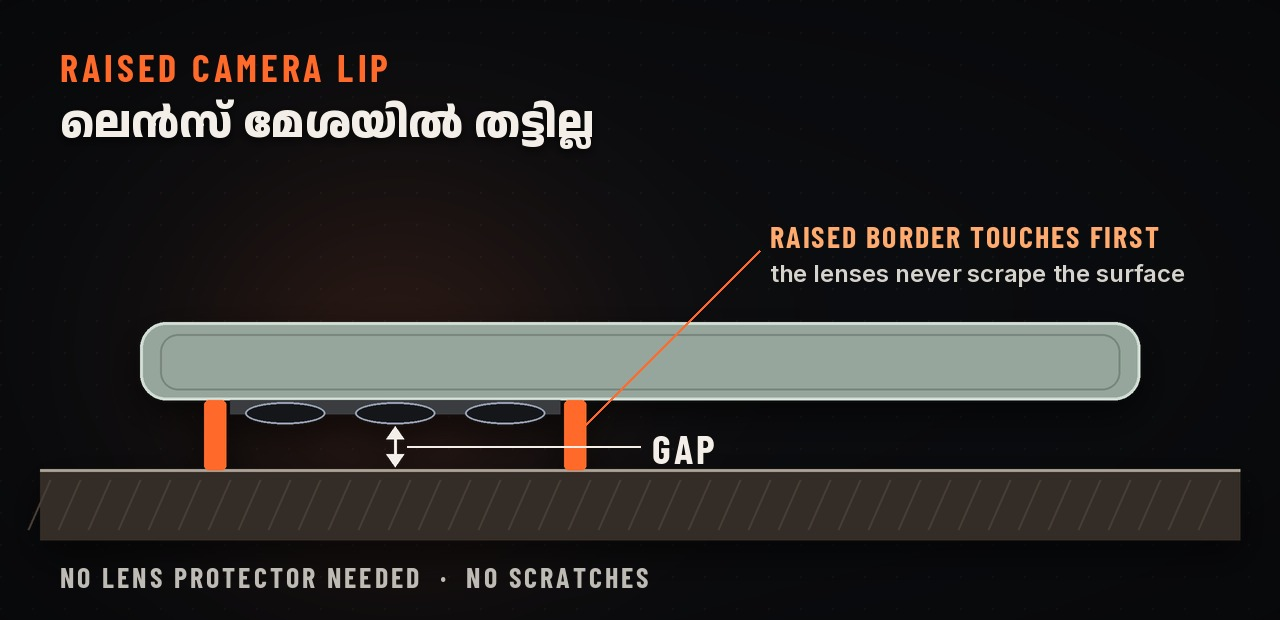
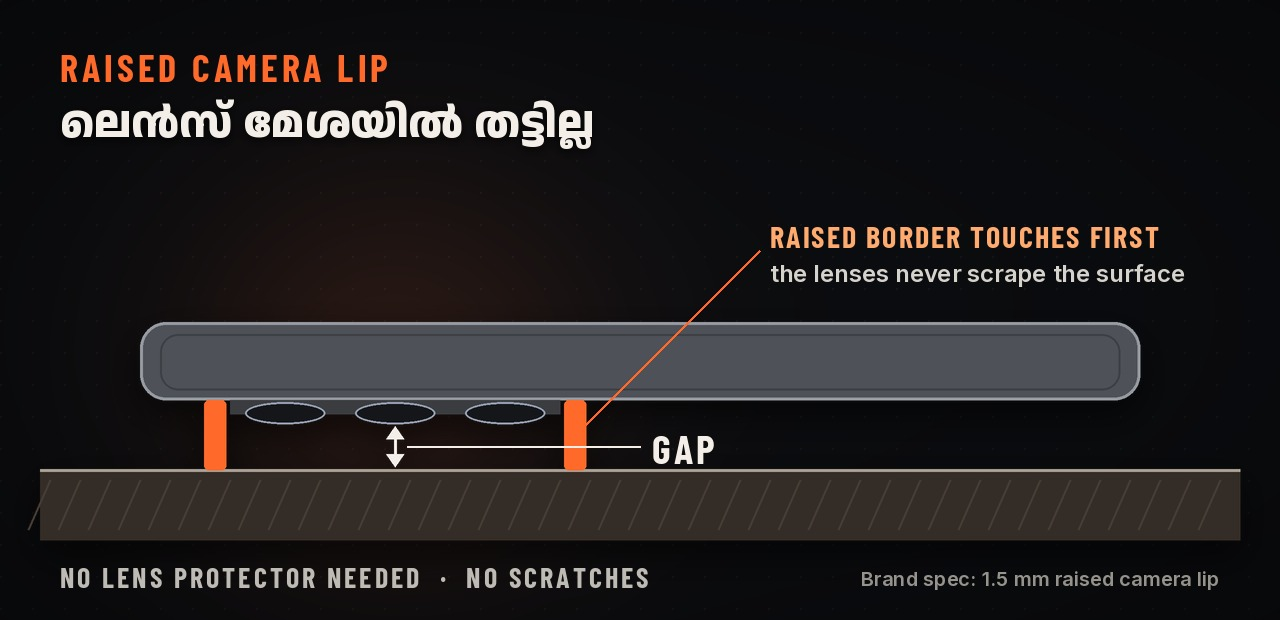
iphone-case-review blog: redraw the case from the real product design
Charcoal shell, camera window showing the phone's finish with three lenses
and the white chevron, flash / LiDAR / triangle vent, ember strips,
octagonal textured panel with MagSafe ring and oval, corner vents with
ember stripes, bumper corners. Feature map gains "textured back"; the lip
diagram notes the brand's 1.5 mm spec.

Claude-Session: https://claude.ai/code/session_01N4FJ4EwySdmqzADLLCyBQi

Changed region(s): [[0.0938, 0.521, 0.9062, 0.6742], [0.6562, 0.9194, 0.9688, 0.95]]

diff --git a/video-edit/tools/blog_images/iphone_case.py b/video-edit/tools/blog_images/iphone_case.py
@@ -4,8 +4,9 @@
 usage: iphone_case.py OUT_DIR
 writes hero.jpg (1280x720), features.jpg (1280x1000), camera-lip.jpg (1280x620), price.jpg (1280x640)
 
-The case is drawn as a flat vector illustration in the product's colours (sage-grey shell, ember accents): a raised
-camera island with three lenses, MagSafe ring, dotted heat vents, button covers on the sides, thicker corners.
+The case is drawn as a flat vector illustration of the actual design (charcoal shell, camera window showing the phone's
+finish with three lenses and a white chevron, flash / LiDAR / triangle vent, ember strips, octagonal textured panel with a
+MagSafe ring and oval, corner vents with ember stripes, bumper corners).
 """
 import math, os, sys
 import numpy as np
@@ -76,87 +77,139 @@ def tracked(d, xy, s, ft, fill, tr):
 
 
 # ---------------------------------------------------------------------------------------------- the case
+CH = (78, 81, 87)          # charcoal shell
+CH_D = (48, 50, 55)
+CH_L = (122, 126, 133)
+PANEL = (60, 63, 68)
+CREAM = (233, 221, 198)    # the phone's own finish, seen through the camera window
+
+
+def _dots(d, P, S, pts_fn, x0, y0, x1, y1, step, r, fill):
+    y = y0
+    row = 0
+    while y <= y1:
+        x = x0 + (step / 2 if row % 2 else 0)
+        while x <= x1:
+            if pts_fn(x, y):
+                d.ellipse([*P(x - r, y - r), *P(x + r, y + r)], fill=fill)
+            x += step
+        y += step * 0.87
+        row += 1
+
+
+def _in_tri(a, b, c):
+    def f(x, y):
+        def sgn(p1, p2, p3):
+            return (p1[0] - p3[0]) * (p2[1] - p3[1]) - (p2[0] - p3[0]) * (p1[1] - p3[1])
+        d1, d2, d3 = sgn((x, y), a, b), sgn((x, y), b, c), sgn((x, y), c, a)
+        neg = d1 < 0 or d2 < 0 or d3 < 0
+        pos = d1 > 0 or d2 > 0 or d3 > 0
+        return not (neg and pos)
+    return f
+
+
 def case_back(h=1100):
-    """Back view of the case (portrait), RGBA, height h.  Returns (img, anchors) with anchors in image px."""
+    """Back view of the case as sold (charcoal shell, camera window showing the phone's cream finish, three lenses,
+    white chevron strips, flash / LiDAR / triangle vent, ember strips, octagonal textured panel with MagSafe ring and
+    oval, corner vents with ember stripes, bumper corners).  RGBA at height h; returns (img, anchors)."""
     ss = 2
-    W0, H0 = 560, 1140                       # design units
+    W0, H0 = 560, 1140
     k = h / H0
     S = lambda v: v * k * ss
     W, H = int(W0 * k), int(H0 * k)
-    im = Image.new("RGBA", (W * ss + 4 * ss, H * ss), (0, 0, 0, 0))
-    d = ImageDraw.Draw(im)
-    ox = 2 * ss
+    pad = 6
+    im = Image.new("RGBA", (W * ss + 2 * pad * ss, H * ss), (0, 0, 0, 0))
+    ox = pad * ss
     P = lambda x, y: (ox + S(x), S(y))
-    # side button covers (behind the shell): right edge = phone's left side seen from the back
-    for (y0, y1) in ((250, 312), (360, 450), (480, 570)):
-        d.rounded_rectangle([*P(W0 - 14, y0), *P(W0 + 1, y1)], radius=S(6), fill=SAGE_D)
-    for (y0, y1) in ((360, 500), (760, 830)):
-        d.rounded_rectangle([*P(-1, y0), *P(14, y1)], radius=S(6), fill=SAGE_D)
-    # shell with a vertical gradient
+    d = ImageDraw.Draw(im)
+    # button covers (behind the shell): right edge = action + volume, left edge = power + camera control
+    for (y0, y1) in ((236, 296), (330, 420), (446, 536)):
+        d.rounded_rectangle([*P(W0 - 16, y0), *P(W0 + 3, y1)], radius=S(7), fill=CH_D)
+    for (y0, y1) in ((330, 450), (610, 690)):
+        d.rounded_rectangle([*P(-3, y0), *P(16, y1)], radius=S(7), fill=CH_D)
+    # shell with a soft vertical gradient
     shell = Image.new("L", im.size, 0)
-    ImageDraw.Draw(shell).rounded_rectangle([*P(6, 0), *P(W0 - 6, H0)], radius=S(92), fill=255)
+    ImageDraw.Draw(shell).rounded_rectangle([*P(6, 0), *P(W0 - 6, H0)], radius=S(98), fill=255)
     grad = np.zeros((im.size[1], im.size[0], 4), np.uint8)
     t = np.linspace(0, 1, im.size[1])[:, None]
     for c in range(3):
-        grad[..., c] = (SAGE_L[c] * (1 - t) * 0.35 + SAGE[c] * (1 - t) * 0.65 + SAGE_D[c] * t).astype(np.uint8)
+        grad[..., c] = (CH_L[c] * 0.25 * (1 - t) + CH[c] * (1 - 0.25 * (1 - t)) * (1 - 0.18 * t)).astype(np.uint8)
     grad[..., 3] = 255
     im.paste(Image.fromarray(grad, "RGBA"), (0, 0), shell)
     d = ImageDraw.Draw(im)
-    d.rounded_rectangle([*P(6, 0), *P(W0 - 6, H0)], radius=S(92), outline=(84, 96, 90), width=int(S(5)))
-    d.rounded_rectangle([*P(22, 16), *P(W0 - 22, H0 - 16)], radius=S(78), outline=(176, 190, 181), width=int(S(3)))
-    # thicker corners (drop protection)
-    for cx, cy, a0 in ((6, 0, 180), (W0 - 6, 0, 270), (6, H0, 90), (W0 - 6, H0, 0)):
-        bx = (cx - 4 if cx < W0 / 2 else cx - 180 + 4)
-        by = (cy - 4 if cy < H0 / 2 else cy - 180 + 4)
-        d.arc([*P(bx, by), *P(bx + 184, by + 184)], start=a0, end=a0 + 90, fill=(74, 86, 80), width=int(S(10)))
-    # camera island (raised plate)
-    isl = [*P(44, 40), *P(404, 400)]
+    d.rounded_rectangle([*P(6, 0), *P(W0 - 6, H0)], radius=S(98), outline=(36, 38, 42), width=int(S(5)))
+    d.rounded_rectangle([*P(18, 12), *P(W0 - 18, H0 - 12)], radius=S(86), outline=(112, 116, 123), width=int(S(3)))
+    d.rounded_rectangle([*P(30, 24), *P(W0 - 30, H0 - 24)], radius=S(74), outline=(58, 61, 66), width=int(S(2)))
+    # bumper corners (air-cushion style)
+    for (bx, by, a0) in ((6, 0, 180), (W0 - 6 - 196, 0, 270), (6, H0 - 196, 90), (W0 - 6 - 196, H0 - 196, 0)):
+        d.arc([*P(bx, by), *P(bx + 196, by + 196)], start=a0 + 12, end=a0 + 78, fill=(140, 144, 151), width=int(S(4)))
+    # camera island: raised plate with a lip
+    isl = (40, 38, 520, 404)
     sh = Image.new("RGBA", im.size, (0, 0, 0, 0))
-    ImageDraw.Draw(sh).rounded_rectangle([isl[0] + S(6), isl[1] + S(10), isl[2] + S(6), isl[3] + S(10)], radius=S(70), fill=(0, 0, 0, 120))
-    im.alpha_composite(sh.filter(ImageFilter.GaussianBlur(S(8))))
+    ImageDraw.Draw(sh).rounded_rectangle([*P(isl[0] + 4, isl[1] + 12), *P(isl[2] + 4, isl[3] + 14)], radius=S(66), fill=(0, 0, 0, 150))
+    im.alpha_composite(sh.filter(ImageFilter.GaussianBlur(S(9))))
     d = ImageDraw.Draw(im)
-    d.rounded_rectangle(isl, radius=S(70), fill=(168, 181, 172), outline=(92, 104, 98), width=int(S(5)))
-    d.rounded_rectangle([isl[0] + S(16), isl[1] + S(16), isl[2] - S(16), isl[3] - S(16)], radius=S(56),
-                        outline=(204, 214, 207), width=int(S(3)))
-    # X pattern
-    d.line([*P(230, 120), *P(300, 210)], fill=(222, 230, 225), width=int(S(9)))
-    d.line([*P(300, 280), *P(230, 350)], fill=(222, 230, 225), width=int(S(9)))
-    # dotted vent triangle in the island
-    for i in range(9):
-        for j in range(9):
-            if i + j < 9:
-                x = 250 + i * 14 + (j % 2) * 7
-                y = 360 - j * 13
-                d.ellipse([*P(x - 3.2, y - 3.2), *P(x + 3.2, y + 3.2)], fill=(74, 84, 80))
-    # lenses
-    for (lx, ly, r) in ((136, 130, 66), (136, 300, 66), (262, 216, 66)):
-        d.ellipse([*P(lx - r - 10, ly - r - 10), *P(lx + r + 10, ly + r + 10)], fill=(196, 202, 206), outline=(120, 126, 132), width=int(S(3)))
-        d.ellipse([*P(lx - r, ly - r), *P(lx + r, ly + r)], fill=(24, 27, 32))
-        d.ellipse([*P(lx - r * 0.55, ly - r * 0.55), *P(lx + r * 0.55, ly + r * 0.55)], fill=(10, 12, 16), outline=(60, 70, 90), width=int(S(2)))
-        d.ellipse([*P(lx - r * 0.38, ly - r * 0.52), *P(lx - r * 0.08, ly - r * 0.22)], fill=(150, 170, 205))
-    d.ellipse([*P(342, 92), *P(384, 134)], fill=(236, 232, 214), outline=(140, 140, 130), width=int(S(2)))       # flash
-    d.ellipse([*P(357, 172), *P(369, 184)], fill=(40, 44, 48))                                                    # mic
-    d.ellipse([*P(336, 300), *P(382, 346)], fill=(20, 22, 26), outline=(110, 116, 122), width=int(S(2)))       # LiDAR
-    # ember accents
-    d.rounded_rectangle([*P(36, 150), *P(48, 250)], radius=S(5), fill=EMBER)
-    d.rounded_rectangle([*P(400, 200), *P(412, 300)], radius=S(5), fill=EMBER)
-    d.line([*P(430, 600), *P(500, 690)], fill=EMBER, width=int(S(11)))
-    # dotted vent bottom right of the shell
-    for i in range(7):
-        for j in range(5):
-            x = 430 + i * 14 + (j % 2) * 7
-            y = 720 + j * 14
-            d.ellipse([*P(x - 3.2, y - 3.2), *P(x + 3.2, y + 3.2)], fill=(84, 96, 90))
-    # MagSafe ring
-    cx, cy, r = 280, 760, 190
-    d.ellipse([*P(cx - r, cy - r), *P(cx + r, cy + r)], outline=(96, 108, 102), width=int(S(16)))
-    d.ellipse([*P(cx - r + 30, cy - r + 30), *P(cx + r - 30, cy + r - 30)], outline=(160, 172, 165), width=int(S(4)))
-    d.rounded_rectangle([*P(cx - 16, cy + r + 20), *P(cx + 16, cy + r + 66)], radius=S(8), fill=(110, 122, 116))
-    im = im.resize((W + 4, H), Image.LANCZOS)
+    d.rounded_rectangle([*P(*isl[:2]), *P(*isl[2:])], radius=S(66), fill=(96, 100, 107), outline=(34, 36, 40), width=int(S(6)))
+    d.rounded_rectangle([*P(isl[0] + 14, isl[1] + 14), *P(isl[2] - 14, isl[3] - 14)], radius=S(54),
+                        outline=(140, 145, 152), width=int(S(3)))
+    # camera window (phone finish) bounded on the right by the white chevron
+    win = [(70, 66), (300, 66), (356, 221), (300, 376), (70, 376)]
+    m = Image.new("L", im.size, 0)
+    ImageDraw.Draw(m).polygon([P(x, y) for x, y in win], fill=255)
+    rr = Image.new("L", im.size, 0)
+    ImageDraw.Draw(rr).rounded_rectangle([*P(70, 66), *P(420, 376)], radius=S(44), fill=255)
+    m = Image.fromarray(np.minimum(np.asarray(m), np.asarray(rr)))
+    cream = np.zeros((im.size[1], im.size[0], 4), np.uint8)
+    tt = np.linspace(0, 1, im.size[0])[None, :]
+    for c in range(3):
+        cream[..., c] = (CREAM[c] * (1.02 - 0.10 * tt)).clip(0, 255).astype(np.uint8)
+    cream[..., 3] = 255
+    im.paste(Image.fromarray(cream, "RGBA"), (0, 0), m)
+    d = ImageDraw.Draw(im)
+    for (lx, ly, r) in ((152, 138, 66), (152, 304, 66), (262, 221, 66)):
+        d.ellipse([*P(lx - r - 7, ly - r - 7), *P(lx + r + 7, ly + r + 7)], fill=(30, 31, 34))
+        d.ellipse([*P(lx - r, ly - r), *P(lx + r, ly + r)], fill=(14, 15, 18), outline=(70, 74, 82), width=int(S(2)))
+        d.ellipse([*P(lx - r * 0.5, ly - r * 0.5), *P(lx + r * 0.5, ly + r * 0.5)], fill=(8, 9, 12), outline=(48, 58, 82), width=int(S(2)))
+        d.ellipse([*P(lx - r * 0.34, ly - r * 0.46), *P(lx - r * 0.08, ly - r * 0.20)], fill=(120, 150, 205))
+    d.line([*P(312, 82), *P(364, 204)], fill=(236, 236, 234), width=int(S(11)))
+    d.line([*P(364, 238), *P(312, 360)], fill=(236, 236, 234), width=int(S(11)))
+    # right side of the island: flash, mic, LiDAR, triangle vent
+    d.ellipse([*P(414, 88), *P(470, 144)], fill=(40, 40, 42))
+    d.ellipse([*P(422, 96), *P(462, 136)], fill=(236, 200, 70))
+    d.rounded_rectangle([*P(430, 168), *P(452, 196)], radius=S(10), fill=(40, 42, 46))
+    d.ellipse([*P(410, 286), *P(470, 346)], fill=(16, 17, 20), outline=(70, 74, 80), width=int(S(2)))
+    tri = ((350, 376), (412, 376), (381, 316))
+    _dots(d, P, S, _in_tri(*tri), 350, 318, 412, 374, 10, 2.8, (34, 36, 40))
+    d.rounded_rectangle([*P(46, 170), *P(58, 262)], radius=S(5), fill=EMBER)
+    d.rounded_rectangle([*P(502, 196), *P(514, 288)], radius=S(5), fill=EMBER)
+    # octagonal textured panel
+    oct_ = [(142, 452), (418, 452), (488, 522), (488, 1012), (418, 1082), (142, 1082), (72, 1012), (72, 522)]
+    d.polygon([P(x, y) for x, y in oct_], fill=PANEL, outline=(40, 42, 46))
+    tex = Image.new("L", im.size, 0)
+    ImageDraw.Draw(tex).polygon([P(x, y) for x, y in oct_], fill=255)
+    dots = Image.new("RGBA", im.size, (0, 0, 0, 0))
+    _dots(ImageDraw.Draw(dots), P, S, lambda x, y: True, 72, 452, 488, 1082, 9, 1.7, (44, 46, 51, 255))
+    im.paste(dots, (0, 0), Image.fromarray(np.minimum(np.asarray(tex), np.asarray(dots.split()[3]))))
+    d = ImageDraw.Draw(im)
+    for (x, y) in ((150, 474), (410, 474), (466, 530), (466, 1004), (410, 1060), (150, 1060), (94, 1004), (94, 530)):
+        d.ellipse([*P(x - 7, y - 7), *P(x + 7, y + 7)], fill=(36, 38, 42), outline=(104, 108, 114), width=int(S(1.5)))
+    # corner vents with ember stripes (top-right and bottom-left chamfers)
+    _dots(d, P, S, _in_tri((436, 446), (512, 446), (512, 522)), 436, 446, 512, 522, 10, 2.8, (30, 32, 36))
+    d.line([*P(410, 474), *P(470, 534)], fill=EMBER, width=int(S(10)))
+    _dots(d, P, S, _in_tri((48, 1012), (48, 1090), (126, 1090)), 48, 1012, 126, 1090, 10, 2.8, (30, 32, 36))
+    d.line([*P(92, 1000), *P(150, 1058)], fill=EMBER, width=int(S(10)))
+    # MagSafe ring and the oval below it
+    cx, cy, r = 280, 712, 168
+    d.ellipse([*P(cx - r - 10, cy - r - 10), *P(cx + r + 10, cy + r + 10)], fill=(42, 44, 49))
+    d.ellipse([*P(cx - r + 26, cy - r + 26), *P(cx + r - 26, cy + r - 26)], fill=(66, 69, 75), outline=(96, 100, 107), width=int(S(2)))
+    d.arc([*P(cx - r - 4, cy - r - 4), *P(cx + r + 4, cy + r + 4)], start=200, end=320, fill=(120, 124, 131), width=int(S(3)))
+    d.rounded_rectangle([*P(256, 924), *P(304, 1022)], radius=S(24), fill=(52, 54, 59), outline=(96, 100, 107), width=int(S(2)))
+    im = im.resize((W + 2 * pad, H), Image.LANCZOS)
+    A = lambda x, y: (x * k + pad, y * k)
     anchors = {
-        "action": ((W0 + 1) * k + 2, 281 * k), "buttons": ((W0 + 1) * k + 2, 465 * k),
-        "lip": (44 * k + 2, 380 * k), "lens": (262 * k + 2, 216 * k), "magsafe": ((cx - r) * k + 2, cy * k),
-        "vent": (480 * k + 2, 748 * k), "corner": (40 * k + 2, (H0 - 40) * k), "island": (230 * k + 2, 40 * k),
+        "lens": A(152, 138), "lip": A(isl[0] + 3, 300), "action": A(W0 + 2, 266), "buttons": A(W0 + 2, 375),
+        "magsafe": A(cx - r - 6, cy + 40), "grip": A(420, 860), "vent": A(488, 470), "corner": A(30, H0 - 40),
+        "island": A(280, isl[1]),
     }
     return im, anchors
 
@@ -204,7 +257,8 @@ def callout(img, ax, ay, tx, ty, n, title, sub, align="left"):
 # ---------------------------------------------------------------------------------------------- 1. hero
 def hero():
     W, H = 1280, 720
-    img = backdrop(W, H, glows=((0.74, 0.45, 0.50, EMBER, 0.26), (0.10, 0.90, 0.5, SAGE, 0.10)))
+    img = backdrop(W, H, glows=((0.74, 0.40, 0.48, (255, 150, 70), 0.34), (0.86, 0.08, 0.40, (255, 205, 120), 0.16),
+                                (0.10, 0.90, 0.5, SAGE, 0.06)))
     case, _ = case_back(620)
     case = rotate(case, -14)
     shadow(img, Image.new("RGBA", img.size), 0, 0, 1, 0)
@@ -236,7 +290,7 @@ def hero():
 # ---------------------------------------------------------------------------------------------- 2. features
 def features():
     W, H = 1280, 1000
-    img = backdrop(W, H, glows=((0.5, 0.45, 0.45, EMBER, 0.14), (0.5, 1.0, 0.6, SAGE, 0.10)))
+    img = backdrop(W, H, glows=((0.5, 0.42, 0.45, (255, 150, 70), 0.22), (0.5, 1.0, 0.6, (255, 205, 120), 0.08)))
     case, A = case_back(820)
     x0, y0 = (W - case.width) // 2, 120
     lay = Image.new("RGBA", img.size, (0, 0, 0, 0))
@@ -248,12 +302,13 @@ def features():
     P = lambda k: (x0 + A[k][0], y0 + A[k][1])
     items = [
         ("lens", (380, 150), 1, "Camera design", "Perfectly designed camera area", "right"),
-        ("action", (930, 250), 2, "Action button", "Covered, not left open", "left"),
-        ("corner", (380, 860), 3, "Drop protection", "Built to take a fall", "right"),
+        ("action", (930, 230), 2, "Action button", "Covered, not left open", "left"),
+        ("corner", (380, 900), 3, "Drop protection", "Built to take a fall", "right"),
         ("lip", (380, 360), 4, "Raised camera lip", "Lens stays off the table", "right"),
-        ("magsafe", (380, 620), 5, "MagSafe", "Supported", "right"),
-        ("buttons", (930, 440), 6, "Button grip", "Good grip on every button", "left"),
-        ("vent", (930, 760), 7, "Heat vents", "Let warm air escape", "left"),
+        ("magsafe", (380, 650), 5, "MagSafe", "Supported", "right"),
+        ("buttons", (930, 380), 6, "Button grip", "Good grip on every button", "left"),
+        ("vent", (930, 540), 7, "Heat vents", "Let warm air escape", "left"),
+        ("grip", (930, 800), 8, "Textured back", "Satisfying to hold", "left"),
     ]
     for key, (tx, ty), n, t1, t2, al in items:
         ax, ay = P(key)
@@ -280,8 +335,8 @@ def camera_lip():
         dl.line([S(x), S(table_y + 10), S(x - 22), S(table_y + 60)], fill=(70, 60, 54, 255), width=S(2))
     lip_h, bump_h, slab = 70, 14, 78
     bot = table_y - lip_h
-    dl.rounded_rectangle([S(140), S(bot - slab), S(1140), S(bot)], radius=S(26), fill=SAGE + (255,), outline=(208, 220, 212, 255), width=S(3))
-    dl.rounded_rectangle([S(160), S(bot - slab + 12), S(1120), S(bot - 10)], radius=S(18), outline=(120, 134, 126, 255), width=S(2))
+    dl.rounded_rectangle([S(140), S(bot - slab), S(1140), S(bot)], radius=S(26), fill=CH + (255,), outline=(150, 154, 161, 255), width=S(3))
+    dl.rounded_rectangle([S(160), S(bot - slab + 12), S(1120), S(bot - 10)], radius=S(18), outline=(60, 63, 68, 255), width=S(2))
     cx0, cx1 = 230, 560
     dl.rectangle([S(cx0), S(bot), S(cx1), S(bot + bump_h)], fill=(58, 60, 64, 255))
     for k in range(3):
@@ -304,6 +359,7 @@ def camera_lip():
     tracked(d, (770, 218), "RAISED BORDER TOUCHES FIRST", LAB(30), EMBER_HI, 2)
     d.text((770, 258), "the lenses never scrape the surface", font=BODY(24), fill=(214, 210, 204))
     tracked(d, (60, 560), "NO LENS PROTECTOR NEEDED  ·  NO SCRATCHES", LAB(28), (190, 186, 180), 3)
+    d.text((1220, 566), "Brand spec: 1.5 mm raised camera lip", font=BODY(20), fill=(150, 146, 140), anchor="ra")
     return img.convert("RGB")
 
 
